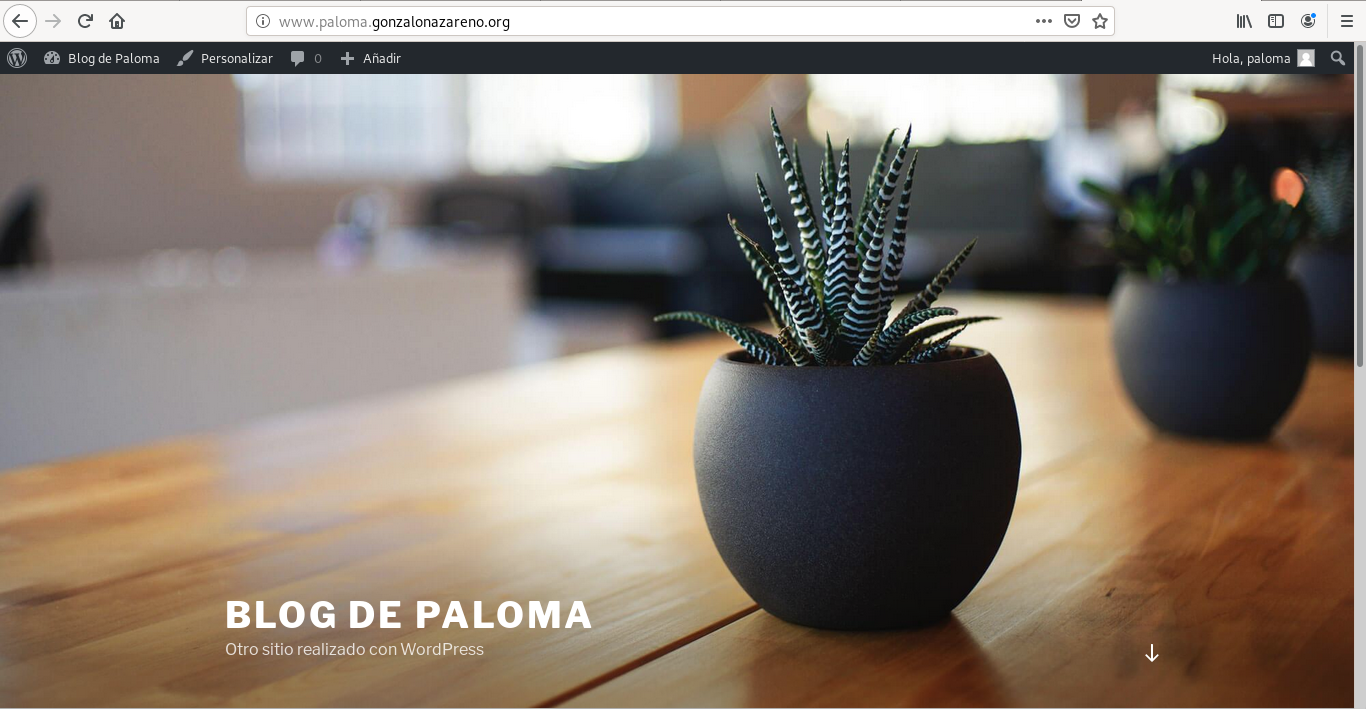
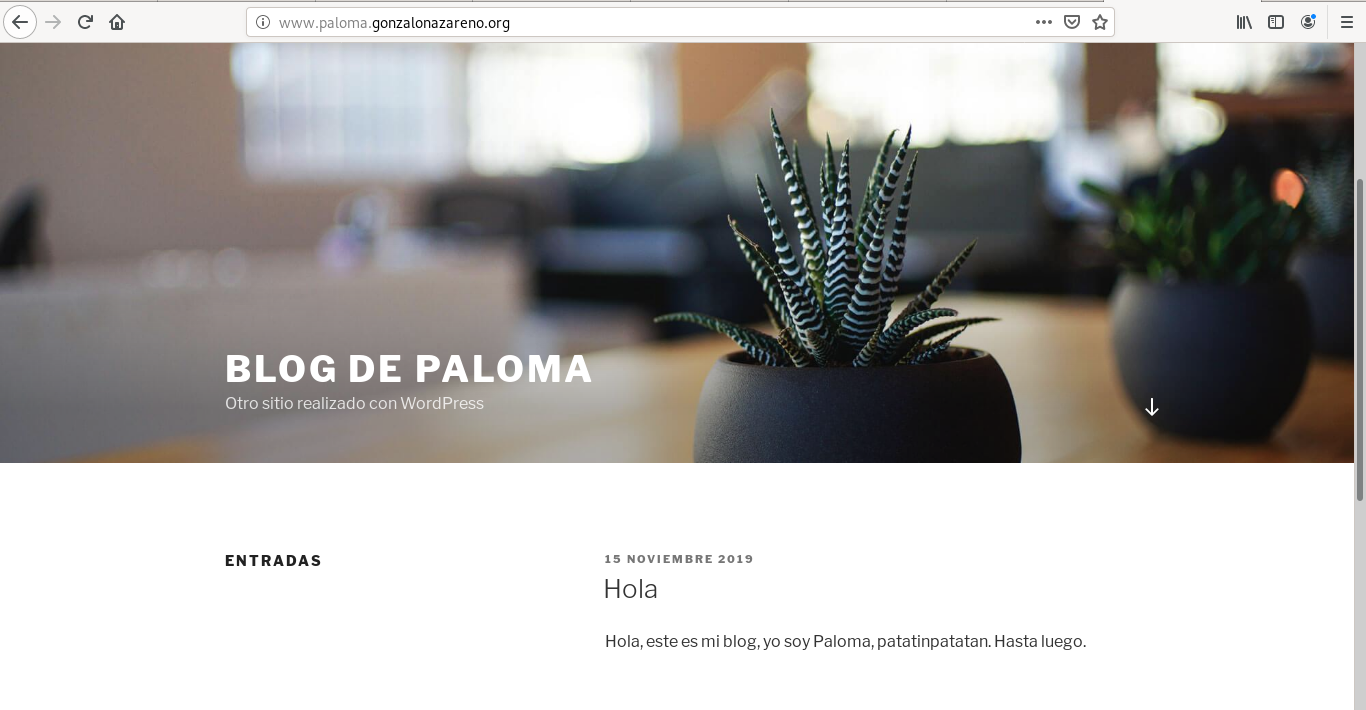
final

diff --git a/Practica-aplicaciones.md b/Practica-aplicaciones.md
@@ -6,13 +6,14 @@ Vamos a instalar dos aplicaciones web php en nuestros servidores:
 
 Modifica las aplicaciones web y personalizalas para que se demuestre que son tus aplicaciones. Entrega una breve descripción de los pasos dados para conseguir la instalación de las aplicaciones web. Usando resolución estática entrega algunas capturas donde se demuestre que las aplicaciones están funcionando.
 
-## Actualización de php
+## Creación de sitio Wordpress
+### Actualización de php
 En ejercicios anteriores se ha descargado php y sus extensiones en la versión 5.4. Hay que actualizarlo todo a la versión 7.2 de la siguiente manera.
 
 Se borran las versiones anteriores, agregan los repositorios necesarios y se instalan.
 
 
-## Configuración de selinux para WordPress
+### Configuración de selinux para WordPress
 Selinux no permite el acceso al instalador de wordpress desde un navegador, por lo tanto hay que introducir los siguientes comandos para permitir el acceso:
 ~~~
 [centos@salmorejo ~]$ sudo chown nginx:nginx -R /usr/share/nginx/html/wordpress
@@ -25,7 +26,7 @@ Selinux no permite el acceso al instalador de wordpress desde un navegador, por 
 ~~~
 
 
-## Configuración de la base de datos remota
+### Configuración de la base de datos remota
 Se ve como se encuentra la conectividad de la base de datos con el siquiente comando, buscando network_connect_db:
 ~~~
 [centos@salmorejo ~]$ getsebool -a | grep httpd
@@ -42,7 +43,7 @@ Se levanta con el siguiente comando:
 ~~~
 
 
-## Instalación de WordPress en Centos
+### Instalación de WordPress en Centos
 Se descargan los paquetes que vamos a necesitar para la instalación de WordPress:
 ~~~
 [centos@salmorejo ~]$ sudo yum install wget
@@ -88,77 +89,268 @@ server {
 ![instalacionWP](bimg.png)
 
 La siguiente pantalla indica que no ha encontrado el fichero wp-config.php:
-![instalacionWP](bimg.png)
+![instalacionWP](cimg.png)
 Para ello, se crea el fichero y se introduce el código que sale por pantalla dentro del nuevo fichero:
 ~~~
 [centos@salmorejo ~]$ sudo touch /usr/share/nginx/html/wordpress/wp-config.php
 ~~~
-![instalacionWP](cimg.png)
 ![instalacionWP](dimg.png)
+![instalacionWP](eimg.png)
 
 
-## Modificaciones Selinux para NextCloud
+### URL limpia
+Se necesita modificar la línea **try_files $uri $uri/ =404;** que aparece bajo "location /{" en el fichero .conf de wordpress por:
+~~~
+ location / {
+        try_files $uri $uri/ /index.php?$args;
+~~~
 
-[centos@salmorejo html]$ sudo semanage fcontext -a -t httpd_sys_rw_content_t '/usr/share/nginx/html/nextcloud/data(/.*)?'
-[centos@salmorejo html]$ sudo semanage fcontext -a -t httpd_sys_rw_content_t '/usr/share/nginx/html/nextcloud/config(/.*)?'
-[centos@salmorejo html]$ sudo semanage fcontext -a -t httpd_sys_rw_content_t '/usr/share/nginx/html/nextcloud/apps(/.*)?
-[centos@salmorejo html]$ sudo semanage fcontext -a -t httpd_sys_rw_content_t '/usr/share/nginx/html/nextcloud/.htaccess'
-[centos@salmorejo html]$ sudo semanage fcontext -a -t httpd_sys_rw_content_t '/usr/share/nginx/html/nextcloud/.user.ini'
-[centos@salmorejo html]$ sudo semanage fcontext -a -t httpd_sys_rw_content_t '/usr/share/nginx/html/nextcloud/3rdparty/aws/aws-sdk-php/src/data/logs(/.*)?'
-[centos@salmorejo html]$ sudo restorecon -Rv '/usr/share/nginx/html/nextcloud/'
+Antes de la modificación la URL aparece de la siguiente forma:
+![instalacionWP](iimg.png)
+
+Desde el usuario administrador de WordPress se selecciona el formato que se quiere utilidar en la URL desde Ajustes>Ajustes de los enlaces permanentes:
+![instalacionWP](jimg.png)
+
+Y el resultado es el siguiente:
+![instalacionWP](kimg.png)
 
 
-## Instalación de NextCloud
+
+## Creación de sitio NextCloud 
+
+### Modificaciones Selinux para NextCloud
+Se habilita la opción que hace que Selinux permita a PHP-FPM usar execmem:
+~~~
+[centos@salmorejo ~]$ sudo setsebool -P httpd_execmem 1
+~~~
+
+Y se reinicia el servicio  de PHP-FPM:
+~~~
+[centos@salmorejo ~]$ sudo systemctl reload php-fpm
+~~~
+
+Se añade el permiso para que PHP-FPM lea y escriba en el directorio de Nextcloud:
+~~~
+[centos@salmorejo ~]$ sudo chcon -t httpd_sys_rw_content_t /usr/share/nginx/nextcloud/ -R
+~~~
+
+Se llama, de nuevo, a Selinux para que permita a nginx hacer solicitudes de red a otros servidores:
+~~~
+[centos@salmorejo ~]$ sudo setsebool -P httpd_can_network_connect 1
+~~~
+
+Se añaden a Nginx los permisos de tres ficheros que se encuentran en /var/lib/php/ y que por defecto son propiedad de Apache:
+~~~
+[centos@salmorejo ~]$ sudo setfacl -R -m u:nginx:rwx /var/lib/php/opcache/ 
+[centos@salmorejo ~]$ sudo setfacl -R -m u:nginx:rwx /var/lib/php/session/ 
+[centos@salmorejo ~]$ sudo setfacl -R -m u:nginx:rwx /var/lib/php/wsdlcache/
+~~~
+
+
+
+### Creación de una nueva base de datos
+En la máquina servidor de mysql, ubuntu@tortilla, se crea un nuevo usuario (opcional) y una nueva base de datos para nextcloud y se le dan los permisos necesarios.
+~~~
+MariaDB [(none)]> create database nextc_db;
+Query OK, 1 row affected (0.06 sec)
+
+MariaDB [(none)]> create user 'clientenext' identified by 'clientenext';
+Query OK, 0 rows affected (0.00 sec)
+
+MariaDB [(none)]> grant all on nextc_db.* to clientenext@10.0.0.5 identified by 'clientenext';
+Query OK, 0 rows affected (0.01 sec)
+
+MariaDB [(none)]> grant all on nextc_db.* to clientenext@localhost identified by 'clientenext';
+Query OK, 0 rows affected (0.00 sec)
+~~~
+
+
+
+### Instalación de NextCloud en CentOS7
 
 Descargar NextCloud:
 ~~~
-[centos@salmorejo html]$ sudo wget https://download.nextcloud.com/server/releases/nextcloud-14.0.1.zip
+[centos@salmorejo ~]$ wget https://download.nextcloud.com/server/releases/nextcloud-14.0.4.zip
 ~~~
 
 Se descomprime:
 ~~~
-[centos@salmorejo html]$ sudo inzip nextcloud-14.0.1.zip
+[centos@salmorejo ~]$ sudo unzip nextcloud-14.0.4.zip -d /usr/share/nginx/
 ~~~
 
 Se cambian los permisos:
 ~~~
-[centos@salmorejo html]$ sudo chown -Rf apache:apache nextcloud
+[centos@salmorejo ~]$ sudo chown nginx:nginx /usr/share/nginx/nextcloud -R
 ~~~
 
-Y se modifica el fichero de configuración nextcloud.conf:
+Se crea el fichero nextcloud.conf y se configura usando una serie de módulos necesarios para NextCloud:
 ~~~
 server {
-    listen	 80;
-    server_name  cloud.paloma.gonzalonazareno.org;
+    listen 80;
+    server_name cloud.paloma.gonzalonazareno.org;
 
-    # note that these lines are originally from the "location /" block
-    root   /usr/share/nginx/html/nextcloud;
-    index index.php index.html index.htm;
+    # Add headers to serve security related headers
+    add_header X-Content-Type-Options nosniff;
+    add_header X-XSS-Protection "1; mode=block";
+    add_header X-Robots-Tag none;
+    add_header X-Download-Options noopen;
+    add_header X-Permitted-Cross-Domain-Policies none;
+    add_header Referrer-Policy no-referrer;
+
+    #I found this header is needed on Debian/Ubuntu/CentOS/RHEL, but not on Arch Linux.
+    add_header X-Frame-Options "SAMEORIGIN";
+
+    # Path to the root of your installation
+    root /usr/share/nginx/nextcloud/;
+
+    access_log /var/log/nginx/nextcloud.access;
+    error_log /var/log/nginx/nextcloud.error;
+
+    location = /robots.txt {
+        allow all;
+        log_not_found off;
+        access_log off;
+    }
+
+    # The following 2 rules are only needed for the user_webfinger app.
+    # Uncomment it if you're planning to use this app.
+    #rewrite ^/.well-known/host-meta /public.php?service=host-meta last;
+    #rewrite ^/.well-known/host-meta.json /public.php?service=host-meta-json
+    # last;
+
+    location = /.well-known/carddav {
+        return 301 $scheme://$host/remote.php/dav;
+    }
+    location = /.well-known/caldav {
+       return 301 $scheme://$host/remote.php/dav;
+    }
+
+    location ~ /.well-known/acme-challenge {
+      allow all;
+    }
+
+    # set max upload size
+    client_max_body_size 512M;
+    fastcgi_buffers 64 4K;
+
+    # Disable gzip to avoid the removal of the ETag header
+    gzip off;
+
+    # Uncomment if your server is build with the ngx_pagespeed module
+    # This module is currently not supported.
+    #pagespeed off;
+
+    error_page 403 /core/templates/403.php;
+    error_page 404 /core/templates/404.php;
 
     location / {
-        try_files $uri $uri/ =404;
-    }
-    error_page 404 /404.html;
-    error_page 500 502 503 504 /50x.html;
-    location = /50x.html {
-        root /usr/share/nginx/html/nextcloud;
+       rewrite ^ /index.php$uri;
     }
 
-    location ~ \.php$ {
-        try_files $uri =404;
-        fastcgi_pass unix:/var/run/php-fpm/php-fpm.sock;
-        fastcgi_index index.php;
-        fastcgi_param SCRIPT_FILENAME $document_root$fastcgi_script_name;
-        include fastcgi_params;
+    location ~ ^/(?:build|tests|config|lib|3rdparty|templates|data)/ {
+       deny all;
     }
+    location ~ ^/(?:\.|autotest|occ|issue|indie|db_|console) {
+       deny all;
+     }
+
+    location ~ ^/(?:index|remote|public|cron|core/ajax/update|status|ocs/v[12]|updater/.+|ocs-provider/.+|core/templates/40[34])\.php(?:$|/) {
+       include fastcgi_params;
+       fastcgi_split_path_info ^(.+\.php)(/.*)$;
+       fastcgi_param SCRIPT_FILENAME $document_root$fastcgi_script_name;
+       fastcgi_param PATH_INFO $fastcgi_path_info;
+       #Avoid sending the security headers twice
+       fastcgi_param modHeadersAvailable true;
+       fastcgi_param front_controller_active true;
+       fastcgi_pass unix:/var/run/php-fpm/php-fpm.sock;
+       fastcgi_intercept_errors on;
+       fastcgi_request_buffering off;
+    }
+
+    location ~ ^/(?:updater|ocs-provider)(?:$|/) {
+       try_files $uri/ =404;
+       index index.php;
+    }
+
+    # Adding the cache control header for js and css files
+    # Make sure it is BELOW the PHP block
+    location ~* \.(?:css|js)$ {
+        try_files $uri /index.php$uri$is_args$args;
+        add_header Cache-Control "public, max-age=7200";
+        # Add headers to serve security related headers (It is intended to
+        # have those duplicated to the ones above)
+        add_header X-Content-Type-Options nosniff;
+        add_header X-XSS-Protection "1; mode=block";
+        add_header X-Robots-Tag none;
+        add_header X-Download-Options noopen;
+        add_header X-Permitted-Cross-Domain-Policies none;
+        # Optional: Don't log access to assets
+        access_log off;
+   }
+
+   location ~* \.(?:svg|gif|png|html|ttf|woff|ico|jpg|jpeg)$ {
+        try_files $uri /index.php$uri$is_args$args;
+        # Optional: Don't log access to other assets
+        access_log off;
+   }
 }
 ~~~
 
-Directorio para guardar los ficheros sincronizados:
+La configuración anterior puede resultar confusa. A continuación, la explicación de algunas de las herramientas que se han utlizado:
+- ngx_http_headers_module: permite agregar los campos como "Expires" y "Cache-control" a un encabezado de respuesta. Relacionado con la seguridad.
+    * X-Content-Type-Options: marcador usado por el servidor para que los tipo MIME no se cambien ni sigan.
+        - nosniff: bloquea la solicitud.
+    * X-XSS-Protection: para evitar ataques XSS.
+    * X-Robots-Tag: para ignorar la metaetiqueta "robots".
+    * X-Permitted-Cross-Domain-Policies: impide que Adobe Flash y Adobe Acrobat cargen contenido del sitio.
+    * Referrer-Policy: determina qué datos de referente deben incluirse con las solicitudes. 
+- Locacización del fichero robots.txt. Proporciona información a los rastreadores de los buscadores sobre las páginas o los archivos que pueden solicitar o no de tu sitio web. Principalmente, se utiliza para evitar que tu sitio web se sobrecargue con solicitudes; no es un mecanismo para mantener una página web fuera de Google.
+- client_max_body_size: establce el tamaño máximo permitido del cuerpo de la solicitud del cliente.
+- fastcgi_param: establece un parámetros que debe pasarse al servicor FastCGI.
+    * fastcgi_buffers: habilita o deshabilita el almacenamiento en búfer de respuesta del servidor FstCGI.
+    * fastcgi_split_path_info: define expresiones irregulares.
+    * fastcgi_pass establece la dirección de un servidor FastCGI (como nombre de dominio o dirección IP y puerto)
+    * fastcgi_intercept_errors: determina si las respuestas del servidor FastCGI con códigos mayores o igles a 300 deben pasarse a un cliente o ser interceptadas y redirigidas a nginx para procesalas con error_page.
+    * fastcgi_request_buffering: habilita o deshabilita el almacenamiento en búfer de un cuerpo de solicitud de cliente.
+
+Se realiza el test de nginx para ver que todo ha salido bien:
 ~~~
-[centos@salmorejo html]$ sudo mkdir -p /usr/share/nginx/html/nextcloud/data
-[centos@salmorejo html]$ sudo chown -Rf nginx:nginx /usr/share/nginx/html/nextcloud/data/
+[centos@salmorejo ~]$ sudo nginx -t
+nginx: [warn] conflicting server name "cloud.paloma.gonzalonazareno.org" on 0.0.0.0:80, ignored
+nginx: the configuration file /etc/nginx/nginx.conf syntax is ok
+nginx: configuration file /etc/nginx/nginx.conf test is successful
 ~~~
+
+Creación del directorio para guardar los ficheros sincronizados:
+~~~
+[centos@salmorejo ~]$ sudo mkdir /usr/share/nginx/nextcloud-data
+[centos@salmorejo ~]$ sudo chown nginx:nginx /usr/share/nginx/nextcloud-data -R
+~~~
+
+Se reinician los servicios de php-fpm y nginx:
+~~~
+[centos@salmorejo ~]$ sudo systemctl restart php-fpm
+[centos@salmorejo ~]$ sudo systemctl restart nginx
+~~~
+
+Puede que NextCloud necesite una serie de módulos de php.
+![instalacionWP](fimg.png)
+
+Hay que asegurarse que están correctamente instalados los siguinetes paquetes:
+~~~
+[centos@salmorejo ~]$ sudo yum install php-common php-gd php-json php-curl php-zip php-xml php-mbstring php-bz2 php-intl
+~~~
+
+Se ingresan los datos necesarios para activar el servicio. En primer lugar un usuario, que vamos a llamar paloma, la dirección del directorio data y los datos de la base de datos que hemos creado anterioremente para este servicio (usuario, contraseña, nombre de la base de datos e IP de la máquina donde se aloja la base de datos).
+![instalacionWP](gimg.png)
+
+Y de esta forma se consigue entrar en la aplicación NextCloud:
+![instalacionWP](himg.png)
+
+
+
+
+
 
 
 
